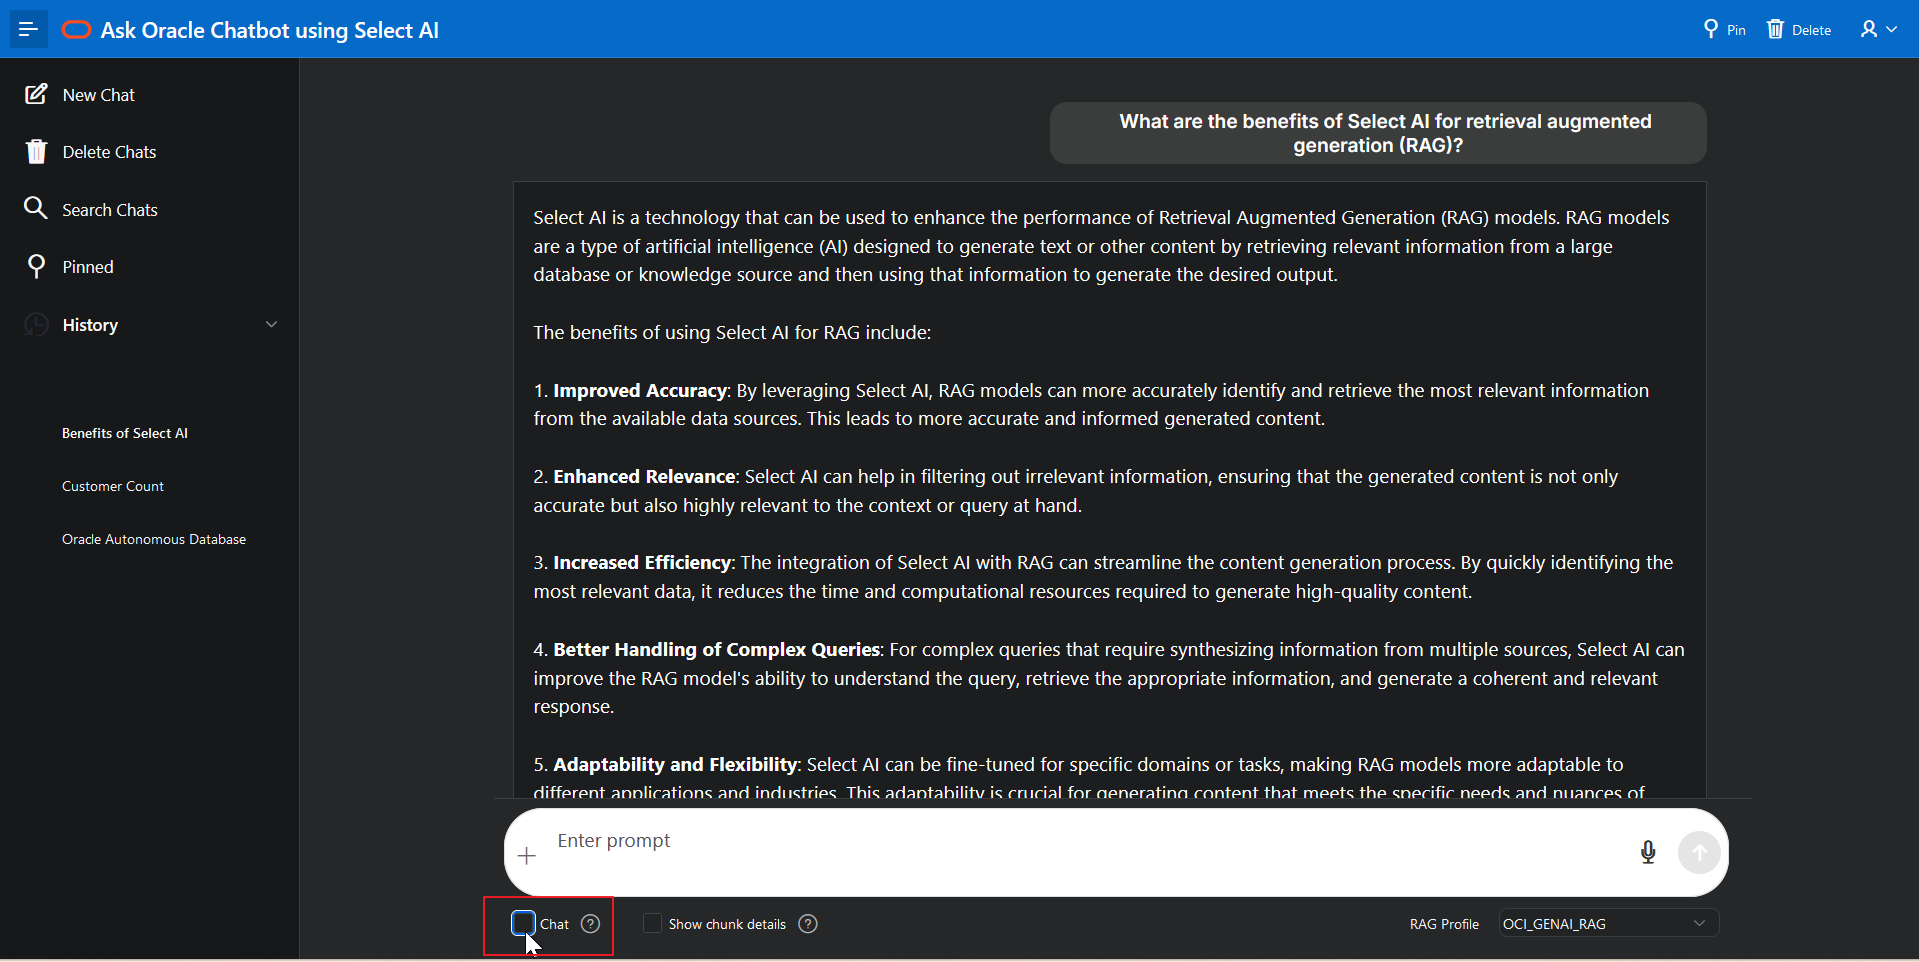
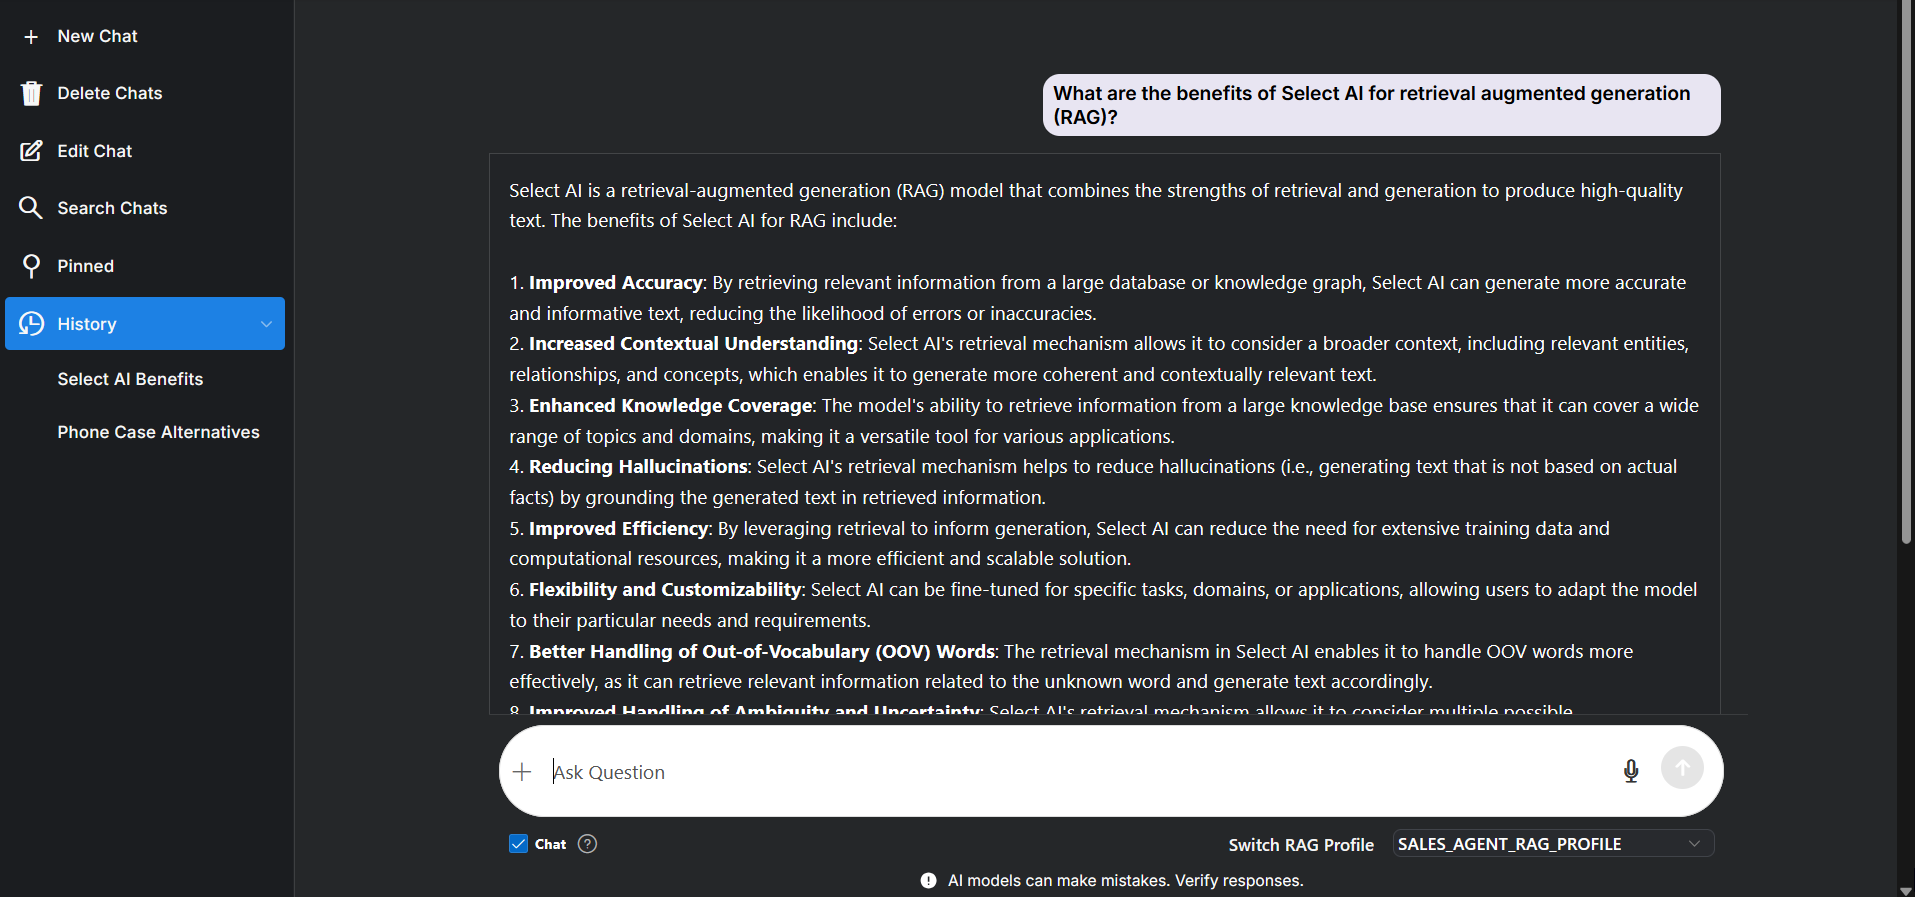
feedback incorporated

Changed region(s): [[0.0, 0.0, 1.0, 1.0], [0.0, 0.2185, 0.154, 0.5931], [0.0, 0.0936, 0.0924, 0.1873]]

diff --git a/shared/agentic-select-ai/use-ask-oracle-demo-app/use-ask-oracle-demo-app.md b/shared/agentic-select-ai/use-ask-oracle-demo-app/use-ask-oracle-demo-app.md
@@ -2,7 +2,7 @@
 
 ## Introduction
 
-Before creating your own Select AI agents, this lab provides a hands-on tour of the “Ask Oracle” demo chatbot app. Here, you’ll use the chatbot to run the agent team created and enhanced in the previous labs. While we’ll focus on interacting with an agent team, this APEX-based app allows you to interact with your data using natural language prompts for RAG and NL2SQL with AI profiles already defined. You’ll open the app, review at the settings, specify NL2SQL   and RAG AI profiles, and pick an AI Agent. Then, try a few prompts — no heavy setup, just click and chat.
+Before creating your own Select AI agents, this lab provides a hands-on tour of the “Ask Oracle” demo chatbot app. Here, you’ll use the chatbot to run the agent team created and enhanced in the previous labs. While we’ll focus on interacting with an agent team, this APEX-based app allows you to interact with your data using natural language prompts for RAG and NL2SQL with AI profiles already defined. You’ll open the app, review at the settings, specify NL2SQL   and RAG AI profiles, and pick an AI Agent. Then, try a few prompts - just click and chat.
 
 
 Estimated Time: 10 minutes.
@@ -27,11 +27,12 @@ To create NL2SQL profile:
 2. Create a NL2SQL Profile by pasting the following code.
   ```
   <copy>
-  BEGIN
-    DBMS_CLOUD_AI.CREATE_PROFILE(
-        profile_name >'OCI_GENAI',
-        attributes   =>'{"provider": "oci",
+BEGIN
+  DBMS_CLOUD_AI.CREATE_PROFILE(
+      profile_name >'GENAI',
+      attributes   =>'{"provider": "oci",
       "credential_name": "AI_CREDENTIAL",
+      "conversation": "true",
       "object_list": [{"owner": "SH", "name": "customers"},
                       {"owner": "SH", "name": "countries"},
                       {"owner": "SH", "name": "supplementary_demographics"},
@@ -46,7 +47,7 @@ To create NL2SQL profile:
 
 ## Task 2 Access the Application
 
-1. Launch the demo app. Paste the URL in a new tab in your Web browser, and then click **[ENTER]**. In the **Ask Oracle** page, enter the username and password, and then click **Sign In**.
+1. Launch the demo app. Paste the URL in a new tab in your Web browser, and then click **[ENTER]**. In the **Ask Oracle** page, enter the username and password, and then click **Sign In**. Refer to **Lab 1 -> Task 4**.
 
   ![Enter Ask Oracle Chatbot credentials](./images/ask-oracle-login.png =70%x*)
 
@@ -94,7 +95,7 @@ For example, follow this script:
 You can use this application to interact with the LLM and your database in a variety of ways:
 
 - **Ask the LLM Directly:**
-Click the **+** and select **NL2SQL**. _Uncheck the  **Database** checkbox_ to provide free-form prompts to your LLM about anything such as:
+Click the **+** and select **NL2SQL**. _Uncheck the  **Database** checkbox_ to provide direct prompts to your LLM about anything such as:
 
   _What is Oracle Autonomous Database?_
   
@@ -110,22 +111,34 @@ Click the **+** and select **NL2SQL**. _Select the **Database** checkbox_ to ask
   ![Ask your database](./images/ask-oracle-database.png =70%x*)
 
 - **Generate narrated result:**
-_Check the **Database** and **Narrate** checkbox_ to ask questions about your database data based on the user and tables in the database specified in the AI profile.
+_Check the **Database** and **Narrate** checkbox_ to ask questions about your database data based on the user and tables in the database specified in the AI profile such as:
+
+  _How many customers are females?_
 
     ![Select Database and Narrate checkboxes](./images/ask-oracle-narrate.png =70%x*)
 
-1. Use the following script to refine your results in a conversation:
+  **Have an interactive conversation**
+
+  Select AI supports short-term, session based conversations, which are enabled in the AI profile by setting the `converstion` parameter to `true`. Refer to **Task 1 -> Step 2** of this lab.
+
+
+1. Uncheck **Narrate**. Use the following prompt:
 
   _How many customers do I have in each country?_
 
-2. Uncheck **Narrate**.
+  Ask another follow up question such as:
 
-  _How many customers do I have in each country?_
   _Break that out by gender_
+
+    ![Uncheck Narrate and have conversation](./images/ask-oracle-uncheck-narrate.png =70%x*)
 
 3. Click **Explain**. 
 
     ![Click Explain](./images/ask-oracle-explain.png =70%x*)
+
+  The following screen displays:
+
+    ![Explains the SQL](./images/ask-oracle-explain-sql.png)
 
   When finished viewing, click the back arrow and continue with the following script:
 
@@ -139,29 +152,33 @@ _Check the **Database** and **Narrate** checkbox_ to ask questions about your da
 
 
 - **Use RAG:**
-Click **+** and select **RAG** to ask questions using retrieval augmented generation (RAG). Ask questions relative to the corresponding vector index content for Select AI to augment your prompt with relevant content for the LLM. Here, we have a vector index created in **Lab 5** -> **Task 1**.
+Click **+** and select **RAG** to ask questions using retrieval augmented generation (RAG). Before you submit the prompt, ensure that the RAG profile `SALES_AGENT_RAG_PROFILE` created earlier in **Lab 5** is selected. Ask questions relative to the corresponding vector index content for Select AI to augment your prompt with relevant content for the LLM. We have created a vector index in **Lab 5** -> **Task 1**.
 
-1. First, we’ll just ask our LLM without RAG, so select the **Chat** checkbox.
+1. First, we’ll just ask our LLM without RAG, so select the **Chat** checkbox. The LLM returns a general response describing Select AI RAG capabilities based on its training, without using any content from your vector index
 
   _What are the benefits of Select AI for retrieval augmented generation (RAG)?_
 
     ![Select Chat](./images/ask-oracle-rag-chat.png =70%x*)
 
-2. Uncheck **Chat**
+2. Uncheck **Chat** and then ask:
 
   _what are alternatives for the smartphone case_
 
+  > **Tip**: Ask a question based on the RAG profile you selected, which references the documents stored in your vector database. 
+  
+  Select AI now uses retrieval augmented generation to ground the response in your vector index. The LLM returns recommendations based on the content of your documents, not general model knowledge.
+
 3. Let’s see the specific chunks provided to the LLM, so select the **Show chunk details** checkbox.
-
-  _How do I create a vector index in Select AI?_
-
-4. Uncheck **Show chunk details** checkbox.
 
   _What do I need to specify in my AI profile to enable RAG?_
 
-**This concludes the workshop.**
+  ![Show chunk details](./images/ask-oracle-show-chunk-details.png =70%x*)
 
-<!---Next, let’s see how you build an AI Agent and use various Select AI Agent tools. You may now proceed to the next lab.--->
+  Select AI splits source documents into smaller units called chunks and stores them in the vector index. During a RAG query, Select AI retrieves the most relevant chunks using semantic search and adds them to the prompt sent to the LLM. This process gives the model focused context from your documents and helps reduce hallucinations.
+
+
+  **This concludes the workshop.**
+
 
 ## Want to Learn More?
 
